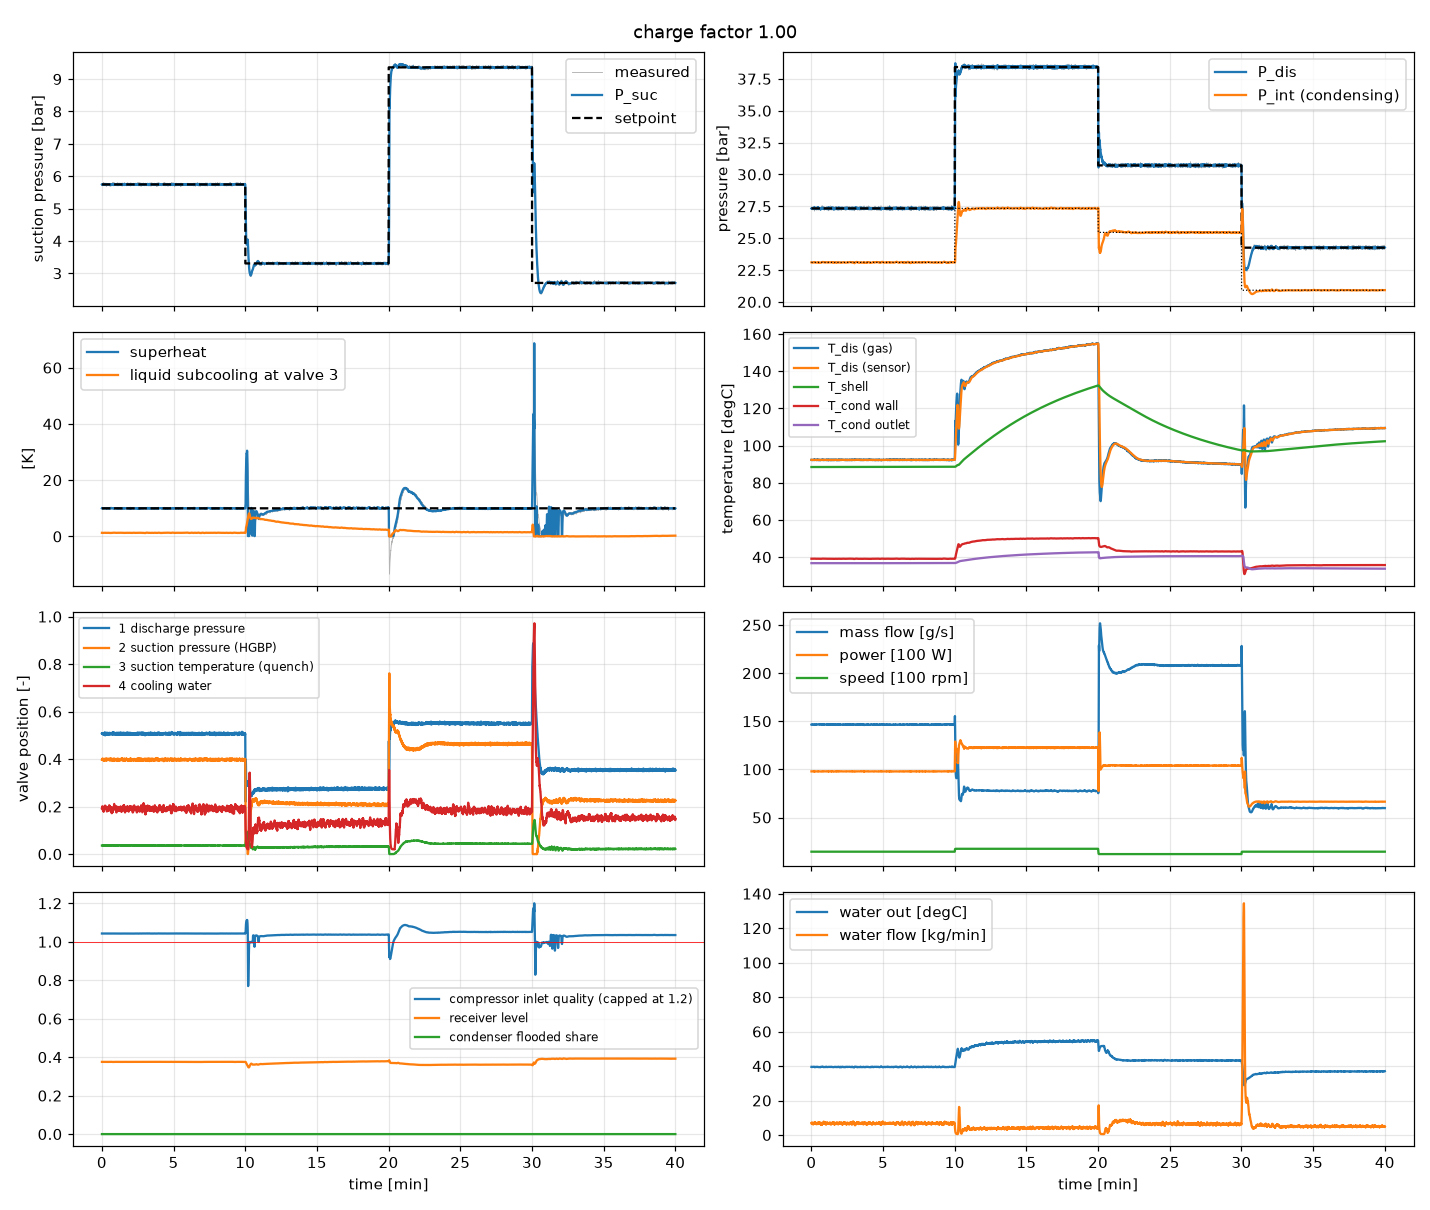
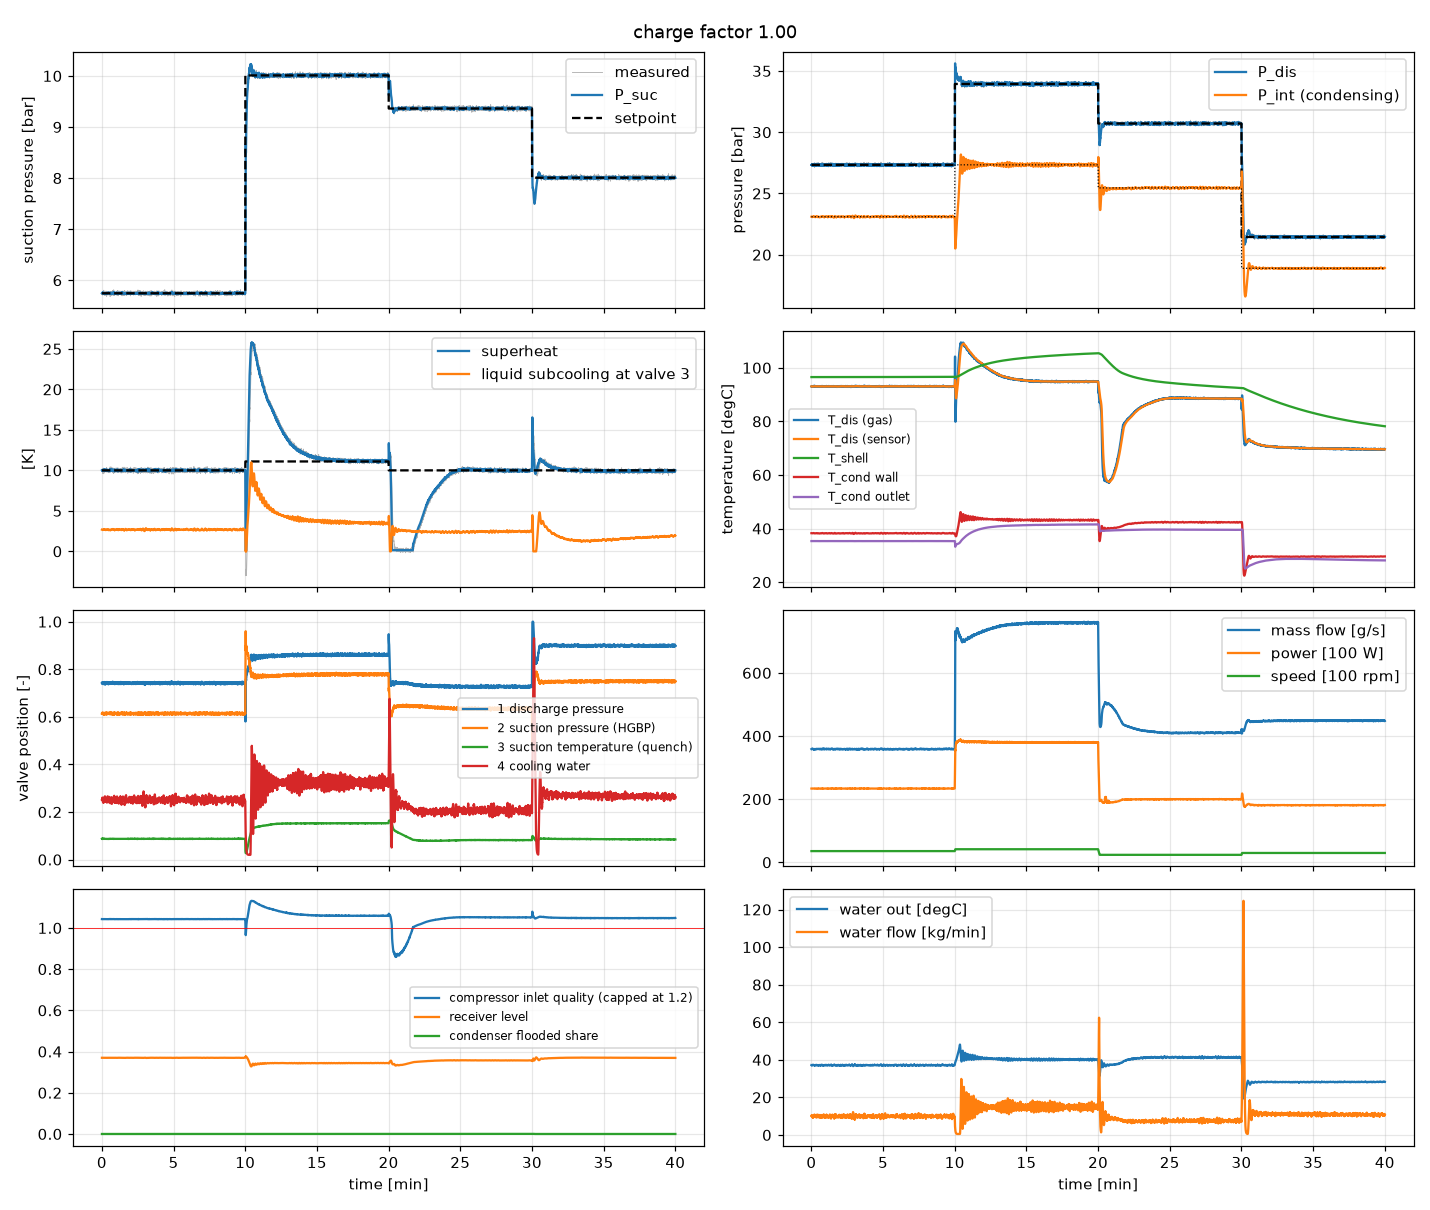
Examples and docs for the test procedure, limits and VFD speeds
The closed-loop example runs MT 60 Hz -> AC 70 Hz -> HT 40 Hz -> low lift
50 Hz with 40 F water (high lift and LT standard lie outside the R410A
envelope and above the 320 F limit); figures regenerated and captions
updated.

diff --git a/examples/closed_loop_pid.py b/examples/closed_loop_pid.py
@@ -22,13 +22,14 @@ def run(cold: bool = False, seed: int = 0, gains: dict | None = None, T_end: flo
     plant = HGBPPlant(params, n=1, dt=0.05, rng=np.random.default_rng(seed))
     plant.p.charge[:] = plant.nominal_charge() * charge_factor
     pr = plant.props
-    T_amb, T_wi = 25.0 + C2K, 20.0 + C2K
+    T_amb, T_wi = 25.0 + C2K, 4.44 + C2K           # the stand's cooling water: 40 degF
     plant.set_inputs(T_amb=T_amb, T_wi=T_wi)
+    hz = lambda f: params.N_nom * f / 60.0          # VFD frequency -> speed (nominal speed at 60 Hz)
     schedule = [
-        (0.0, named_point("MT_standard", pr, 1450.0)),
-        (600.0, named_point("high_lift", pr, 1750.0)),
-        (1200.0, named_point("HT_standard", pr, 1200.0)),
-        (1800.0, named_point("LT_standard", pr, 1450.0)),
+        (0.0, named_point("MT_standard", pr, hz(60.0))),
+        (600.0, named_point("AC_standard", pr, hz(70.0))),
+        (1200.0, named_point("HT_standard", pr, hz(40.0))),
+        (1800.0, named_point("low_lift", pr, hz(50.0))),
     ]
     ctrl = BaselineController(1, gains)
     p0 = schedule[0][1]
@@ -54,7 +55,8 @@ def run(cold: bool = False, seed: int = 0, gains: dict | None = None, T_end: flo
         N_cmd = sp["N"] if t >= t_start else 0.0
         meas = plant.measure(noise=noise)
         running = plant.x[:, HGBPPlant.N_] > 0.5 * params.N_min
-        u = ctrl(meas, dict(P_s=sp["P_s"], P_d=sp["P_d"], SH=sp["SH"], P_i=sp["P_i"]), dt_ctrl, running)
+        T_s_sp = float(plant.props.T_sat(np.array([sp["P_s"]]))[0]) + sp["SH"]   # return gas temperature
+        u = ctrl(meas, dict(P_s=sp["P_s"], P_d=sp["P_d"], T_s=T_s_sp, P_i=sp["P_i"]), dt_ctrl, running)
         aux = plant.step(dt_ctrl, u_cmd=u, N_cmd=N_cmd)
         t = plant.t
         log.append([t, aux["P_s"][0], aux["P_d"][0], aux["SH"][0], aux["P_i"][0],           # 0-4

diff --git a/examples/open_loop_step.py b/examples/open_loop_step.py
@@ -18,8 +18,8 @@ VALVES = ["1 discharge pressure", "2 suction pressure (HGBP)", "3 suction temper
 def step_responses(T_end: float = 600.0, du: float = 0.10):
     params = PlantParams()
     pl = HGBPPlant(params, n=4, dt=0.05)
-    pl.set_inputs(T_amb=25 + C2K, T_wi=20 + C2K)
-    p0 = named_point("MT_standard", pl.props, 1450.0)
+    pl.set_inputs(T_amb=25 + C2K, T_wi=4.44 + C2K)                # 40 degF cooling water
+    p0 = named_point("MT_standard", pl.props, params.N_nom)        # 60 Hz
     res = solve_steady_state(pl, p0["P_s"], p0["P_d"], p0["SH"], p0["N"], P_i=p0["P_i"])
     assert res["converged"].all()
     pl.set_state(np.arange(4), res["x"])

diff --git a/docs/controller-spec.md b/docs/controller-spec.md
@@ -32,12 +32,12 @@ The stand has four manipulated valves and four controlled variables:
 |---|---|---|
 | discharge pressure | 1, discharge pressure valve | lowers the intermediate pressure and the bypass flow |
 | suction pressure | 2, hot gas bypass valve | raises discharge pressure, superheat and mass flow |
-| suction superheat | 3, liquid (suction temperature) valve | raises suction and discharge pressure |
+| return gas (suction) temperature | 3, liquid (suction temperature) valve | raises suction and discharge pressure |
 | intermediate (condensing) pressure | 4, cooling water valve | moves every other variable |
 
 Open-loop step responses from the medium-temperature point (`examples/open_loop_step.py`):
-a 10 % opening of valve 2 raises suction pressure by about 3 bar, discharge pressure by
-about 5 bar and superheat by about 40 K within 10 minutes. The plant is therefore a strongly coupled, nonlinear
+a 10 % opening of valve 2 raises suction pressure by about 2.7 bar, discharge pressure by
+about 3.7 bar and superheat by about 60 K within 10 minutes. The plant is therefore a strongly coupled, nonlinear
 4x4 system; single-loop PID (the baseline) works but produces large superheat excursions
 at every setpoint change and needs several minutes to settle.
 
@@ -74,8 +74,8 @@ are expressed as saturation temperatures (refrigerant-agnostic), errors in kelvi
 | group | entries | notes |
 |---|---|---|
 | measurements (18) | `Tsat_s`, `Tsat_d`, `Tsat_i` (saturation temperature at suction, discharge, intermediate pressure); `T_s` (compressor inlet), `T_d` (/150), `T_co` (condenser outlet, /80); `SH` (/30), `SC` (/20); `mdot_norm` = mass flow / (saturated vapor density at P_suc x swept volume x speed), a volumetric-efficiency proxy in 0..1; `W_norm` = power / (swept volume x speed x P_suc) (/3); `T_wi`, `T_wo`, `T_amb`; `N_rel` = speed / nominal; `u1..u4` valve positions | sensor lag and noise included; `mdot_norm`, `W_norm` are 0 while the compressor is off |
-| setpoints (5) | `Tsat_s_sp`, `Tsat_d_sp`, `SH_sp`, `Tsat_i_sp`, `N_sp_rel` | current test point |
-| errors (8) | `e_Tsat_s`, `e_Tsat_d`, `e_SH`, `e_Tsat_i` (setpoint minus measurement, K, /10); `ie_*` clipped integrals of error/scale in minutes (+-5, /5) | integrals reset at each point change and while stopped |
+| setpoints (5) | `Tsat_s_sp`, `Tsat_d_sp`, `RGT_sp` (return gas temperature, degC / 50), `Tsat_i_sp`, `N_sp_rel` | current test point |
+| errors (8) | `e_Tsat_s`, `e_Tsat_d`, `e_RGT`, `e_Tsat_i` (setpoint minus measurement, K, /10); `ie_*` clipped integrals of error/scale in minutes (+-5, /5) | integrals reset at each point change and while stopped |
 | context (10) | `V_disp_rel` = swept volume / 250 cm3; `N_nom_rel` = nominal speed / 1500 rpm; refrigerant descriptors `rf_T_crit` (/400 K), `rf_P_crit` (/50 bar), `rf_M_molar` (/0.1 kg/mol), `rf_P_sat_ref` (/5 bar at 0 degC), `rf_h_fg_ref` (/200 kJ/kg), `rf_rho_v_ref` (/20 kg/m3), `rf_rho_l_ref` (/1200 kg/m3), `rf_dPsat_dT_ref` (/0.1 bar/K) | constant within an episode; descriptors let the policy interpolate to refrigerants not seen in training |
 | status (10) | `running`, `run_required` (schedule wants the compressor on), `permissive_ok` (start permissives hold), one-hot interlock state `st_off/st_starting/st_running/st_stopping`, `t_point`, `t_in_tol`, `t_since_switch` (s, /600, capped) | |
 
@@ -101,20 +101,25 @@ policy's output a rate that the PLC can clamp.
 
 ### 3.4 Episode structure and labels
 
-* 1..3 test points from the envelope (evaporating -30..12 degC, condensing 30..57 degC,
-  superheat 3..25 K, intermediate temperature between water inlet and condensing,
-  50..140 % speed, estimated discharge temperature below the trip), each checked
-  against the equilibrium solver at nominal charge (every valve below 95 % at steady
-  state; unreachable points are resampled), each with a maximum hold of 5..15 min. A point is **completed** when the three test variables have been
-  inside the tolerance band (0.3 K, 0.2 K, 0.5 K on Tsat_suc, Tsat_dis, SH) for
-  `dwell_required` = 180 s; then the next point is loaded. After the last point
+* 1..3 test points as the test procedure states them: saturated suction and discharge
+  temperatures inside the compressor's operating envelope, a return gas temperature
+  (65 degF for 30 % of the points, otherwise -10..35 degC with 5..50 K superheat) and a
+  VFD frequency of 35..75 Hz. The liquid pressure setpoint is the geometric mean of
+  suction and discharge pressure, at least 6 K of saturation temperature above the
+  cooling water. Each point is checked against the equilibrium solver at nominal charge
+  (every valve below 95 %, a margin to every trip; unreachable points are resampled),
+  each with a maximum hold of 5..15 min. The stand is stable when the three test
+  variables have been inside the tolerance band (0.3 K, 0.2 K, 0.5 K on Tsat_suc,
+  Tsat_dis, RGT) for `dwell_required` = 180 s. A point is then **completed**, or, with
+  `n_collections` > 0 (the stand's 3 x 15 min), after that many uninterrupted data
+  collections; then the next point is loaded. After the last point
   `run_required` drops to 0 and the episode terminates successfully once the compressor
   is off.
 * Start modes: warm (at or near a point, compressor running), cold (equalized stand at
   ambient, liquid in the receiver and optionally some migrated to the suction side,
   compressor off), sampled 70/30.
 * Per episode randomization: plant parameters (+-10..30 %), ambient 15..35 degC, water
-  inlet 12..30 degC, charge factor 0.85..1.15 (85 % of episodes) or 0.3..1.8 (15 %),
+  inlet 38..40 degF, charge factor 0.85..1.15 (85 % of episodes) or 0.3..1.8 (15 %),
   liquid migrated to the suction side at cold start, sensor noise.
 * `info` provides training labels and privileged states: `charge_factor` (true charge /
   nominal), `steady` (in tolerance for >= 120 s), `true` (noise-free pressures,
@@ -251,7 +256,7 @@ closed, valve 4 to 30 % (the expert's rest positions).
   otherwise "ok"; require two consecutive points before changing the advisory.
 * Supporting physical indicators that must agree before the advisory is shown (both are
   visible to an operator and make the estimate auditable): undercharge = valve 3 near
-  fully open with superheat above setpoint and subcooling near 0 K; overcharge =
+  fully open with the return gas temperature above setpoint and subcooling near 0 K; overcharge =
   subcooling above 8 K with valve 4 unusually open for the condensing temperature. Use
   the steady subcooling only: after an intermediate pressure change the receiver takes
   minutes to settle, and the subcooling swings by several kelvin either way.

diff --git a/docs/training.md b/docs/training.md
@@ -21,12 +21,14 @@ obs, reward, terminated, truncated, info = env.step(env.expert_action())
   superheat, subcooling, mass flow normalized by swept volume × speed × suction vapor
   density, power normalized by swept volume × speed × suction pressure, temperatures,
   speed, valve positions;
-* **setpoints**, **tracking errors** and clipped **integrated errors** (kelvin);
+* **setpoints** (saturation temperatures, the RGT, the speed), **tracking errors** and
+  clipped **integrated errors** (kelvin);
 * **context**: swept volume, nominal speed and eight physical refrigerant descriptors;
 * **status** of the compressor start/stop interlock.
 
 One environment instance is one refrigerant; run one instance per fluid to train across
-refrigerants.
+refrigerants. The suction-line volume flow the stand's meter reads is in `env.meas["Vdot"]`
+(not part of the observation).
 
 ## Action
 
@@ -41,18 +43,39 @@ compressor is started automatically and stopped after the last point.
 
 ## Episodes
 
-* **Test points:** 1-3 per episode, sampled from `Envelope`: evaporating -30 to 12 °C,
-  condensing 30 to 57 °C, superheat 3 to 25 K, intermediate temperature between the
-  cooling water and the condensing temperature, 50-140 % speed. Points that fail the
-  feasibility filters (estimated discharge temperature, equilibrium at nominal charge) are
-  resampled.
-* **Completion:** a point is done once suction and discharge saturation temperature and
-  superheat stay inside the tolerance band (0.3 K, 0.2 K, 0.5 K) for `dwell_required`
-  seconds, or when its maximum hold time runs out. After the last point the compressor
-  must be stopped, and the episode ends successfully.
+* **Test points:** 1-3 per episode, as the test procedure gives them: saturated suction
+  and discharge temperatures, a return gas (suction) temperature (RGT) and a VFD
+  frequency. They are sampled from `Envelope`:
+  * evaporating and condensing temperature inside the compressor's operating envelope
+    (`Envelope.polygon`, the manufacturer's R410A map);
+  * RGT of 65 °F for 30 % of the points, otherwise -10 to 35 °C, with the superheat it
+    implies between 5 and 50 K;
+  * 35-75 Hz (the nominal speed is taken as 60 Hz).
+* **Liquid pressure setpoint:** the geometric mean of the suction and discharge pressures,
+  but at least the saturation pressure 6 K above the cooling water inlet (40 °F, down to
+  38 °F: `T_wi_range`).
+* **Feasibility:** points that fail the filters are resampled. The filters are an estimated
+  discharge temperature, and an equilibrium at nominal charge with every valve below 95 %
+  and a margin to the trips (10 K on discharge temperature, 1 bar on the pressures). Warm
+  starts need the same margins at their starting state.
+* **Completion:** the stand is stable once suction and discharge saturation temperature and
+  RGT stay inside the tolerance band (0.3 K, 0.2 K, 0.5 K) for `dwell_required` seconds.
+  * With `n_collections = 0` (default) the point is then done.
+  * With `n_collections > 0` (the stand's procedure is 3 x 15 min: `n_collections=3`,
+    `collection_time=900`) the stand must stay stable for that many collections. Leaving
+    the band loses the collection in progress; it restarts once the stand is stable again.
+    `info` reports `stable`, `collecting`, `collected`, `collection_lost` and
+    `collections_done`.
+  * A point also ends when its maximum hold time runs out. The collections come on top of
+    `hold_time`; raise `episode_time` to fit them.
+  * After the last point the compressor must be stopped, and the episode ends successfully.
 * **Start modes:** `warm` (equilibrium at the first point or another one, from the
   steady-state solver), `cold` (equalized stand at ambient, compressor off, optionally
   some liquid migrated to the suction side) or `random`.
+* **Stand definition:** `EnvConfig(stand="webui/config/stand_defaults.json")` takes the
+  plant parameters and the baseline loops' UT35A settings (tuning, output limits, PV
+  filters) from a defaults file, the same document the web UI reads. Without it, the
+  built-in parameters and gains apply.
 * **Randomized per episode:** plant parameters, ambient and water temperature, the charge
   (`charge_range`, plus a share `p_charge_extreme` of episodes in
   `charge_extreme_range`) and the cold-start liquid distribution.
@@ -82,10 +105,13 @@ environment's action space, for behaviour cloning, DAgger or reward shaping.
 |---|---|
 | discharge pressure | 1 |
 | suction pressure | 2 |
-| superheat | 3 |
-| intermediate pressure | 4 |
+| return gas (suction) temperature | 3 |
+| intermediate (liquid) pressure | 4 |
 
-The superheat loop is slow on purpose (integral time 60 s): the suction temperature
+With `EnvConfig(stand=...)` the loops use the stand's UT35A settings from the defaults
+file; otherwise the built-in gains below.
+
+The built-in suction temperature loop is slow on purpose (integral time 60 s): the suction temperature
 responds to valve 3 over about a minute, because the mixing exchanger's plates have to
 change temperature, and a faster loop limit-cycles into floodback. Every valve moves
 suction pressure, discharge pressure and superheat together

diff --git a/docs/examples.md b/docs/examples.md
@@ -20,7 +20,7 @@ from hgbp_sim import HGBPPlant, PlantParams, solve_steady_state, named_point
 plant = HGBPPlant(PlantParams(), n=1, dt=0.05)
 plant.p.charge[:] = plant.nominal_charge() * 1.2                # 20 % overcharged
 plant.set_inputs(T_amb=298.15, T_wi=293.15)
-pt = named_point("MT_standard", plant.props, N=1450.0)         # -10 / 45 °C, 10 K SH, 38 °C condensing
+pt = named_point("MT_standard", plant.props, N=3550.0)         # -10 / 45 °C, 10 K SH, 38 °C liquid, 60 Hz
 ss = solve_steady_state(plant, pt["P_s"], pt["P_d"], pt["SH"], pt["N"], P_i=pt["P_i"])
 plant.set_state(0, ss["x"])
 aux = plant.step(1.0, u_cmd=ss["u"], N_cmd=pt["N"])             # advance 1 s
@@ -29,35 +29,38 @@ meas = plant.measure()                                           # noisy, lagged
 
 ## Closed loop with the baseline PID
 
-Four test points (MT standard -> high lift at 1750 rpm -> HT standard at 1200 rpm -> LT
-standard), nominal charge, warm start. Grey traces are the noisy sensor readings, dashed
-lines the setpoints (`python examples/closed_loop_pid.py`).
+Four test points inside the compressor's envelope (MT standard at 60 Hz -> AC standard
+at 70 Hz -> HT standard at 40 Hz -> low lift at 50 Hz), 40 °F cooling water, nominal
+charge, warm start. Grey traces are the noisy sensor readings, dashed lines the setpoints
+(`python examples/closed_loop_pid.py`).
 
 The subcooling at valve 3 follows the receiver. At 10 min the intermediate pressure rises
-and leaves the receiver liquid subcooled: about 7 K, decaying over ten minutes. At 30 min
+and leaves the receiver liquid subcooled: about 11 K, decaying over five minutes. At 30 min
 it falls, and the liquid flashes: no subcooling until the receiver has cooled to the new
-saturation temperature.
+saturation temperature. The coupling of the loops shows at every change: superheat
+overshoots to 25 K at the AC point, and after the step to the HT point at 40 Hz it
+collapses, and liquid reaches the compressor for about a minute and a half.
 
 ![closed loop, nominal charge](../figures/closed_loop_charge_1.0.png)
 
 The same schedule from a cold, equalized stand, compressor started at 10 s. The shell and
 discharge temperatures take tens of minutes to settle. As the intermediate pressure builds
 over the receiver's liquid, which is still at ambient temperature, the subcooling jumps to
-about 11 K and relaxes over ten minutes (`--cold`):
+about 14 K and relaxes over ten minutes (`--cold`):
 
 ![closed loop, cold start](../figures/closed_loop_cold_start.png)
 
 Undercharged (30 % of nominal): the receiver level falls below the dip tube and valve 3
 passes vapor (the negative "subcooling" is that vapor's superheat). The quench cannot cool
-the bypass gas, so superheat runs high and the suction pressure loop loses the point
-(`--charge 0.3`):
+the bypass gas: superheat runs 40-110 K and the discharge temperature reaches 200 °C, far
+past the stand's 320 °F trip (the example runs the plant without trips) (`--charge 0.3`):
 
 ![closed loop, undercharged](../figures/closed_loop_charge_0.3.png)
 
 Overcharged (240 % of nominal). There is no steady state at the first point with this
-charge, so the run starts cold. The receiver is full, and the blocked drain floods 60-85 %
-of the condenser. The condensate draining through the flooded plates subcools by 13-22 K.
-The water loop cycles at the high-lift and LT points but holds every point: the colder,
+charge, so the run starts cold. The receiver is full, and the blocked drain floods 20-85 %
+of the condenser. The condensate draining through the flooded plates subcools by 15-30 K.
+The water loop cycles for minutes at the AC point but holds every point: the colder,
 denser receiver liquid takes back part of the charge (`--charge 2.4`):
 
 ![closed loop, overcharged](../figures/closed_loop_charge_2.4.png)

diff --git a/docs/model.md b/docs/model.md
@@ -201,9 +201,14 @@ warm-up seen on real stands.
 
 ### Sensors and trips
 * Pressure transducers (noise); temperatures at the compressor suction port, discharge and
-  the liquid line at valve 3 (first-order lag + noise); Coriolis flow meter and power
-  meter (lag + relative noise); receiver sight glass.
+  the liquid line at valve 3 (first-order lag + noise); mass flow and power meter (lag +
+  relative noise); receiver sight glass. The stand measures flow with a
+  positive-displacement meter in the suction line: `measure()` also gives that volume
+  flow (`Vdot`), the mass flow reading at the vapor density of the measured suction
+  pressure and temperature.
 * Trips: high discharge pressure, high discharge temperature, low / high suction pressure.
+  The defaults are the stand's hard limits: 700 psia (48.3 bar), 320 °F (160 °C) and a
+  30 psia (2.07 bar) minimum suction pressure.
 * Flags: liquid at the compressor (floodback), quench liquid leaving the mixing exchanger,
   no liquid seal (undercharge), receiver full and condenser flooding (overcharge).
 * The liquid line sensor reads the receiver pool's temperature with its lag. While the pool

diff --git a/docs/web-ui.md b/docs/web-ui.md
@@ -162,10 +162,10 @@ least 5 %). To start:
 3. switch the loops to AUTO once the compressor turns (about 600 rpm).
 
 With the discharge loop in AUTO before that, it closes valve 1 against the starting
-compressor and the stand trips on high discharge pressure within seconds. A PV filter on
-the discharge loop also slows its answer to the start. With the stand's defaults file
-(`FL` = 4 s) the discharge pressure peaks at about 41.6 bar, just over the 41.4 bar trip;
-with `FL` = 2 s it peaks at about 39.6 bar. The
+compressor and the discharge pressure overshoots. A PV filter on the discharge loop also
+slows its answer to the start. With the stand's defaults file (`FL` = 4 s) the discharge
+pressure peaks at about 41.5 bar, with `FL` = 2 s at about 39.5 bar, both below the
+stand's 700 psia (48.3 bar) trip. The
 anti-short-cycle timers (60 s minimum off, 120 s minimum run) can be switched off on the
 Settings tab.
 

diff --git a/README.md b/README.md
@@ -12,11 +12,13 @@ running the stand interactively in a browser.
 |---|---|
 | 1 discharge line | discharge pressure |
 | 2 hot gas bypass | suction pressure |
-| 3 liquid quench | suction temperature (superheat) |
+| 3 liquid quench | suction (return gas) temperature |
 | 4 condenser cooling water | intermediate (condensing) pressure |
 
-A test point is suction pressure, discharge pressure, superheat, intermediate pressure and
-compressor speed.
+A test point is a saturated suction and discharge temperature, a return gas (suction)
+temperature and a VFD frequency, inside the compressor's operating envelope. The
+intermediate (liquid) pressure setpoint is the geometric mean of the suction and discharge
+pressures, clamped by the cooling water.
 
 ## Features
 
